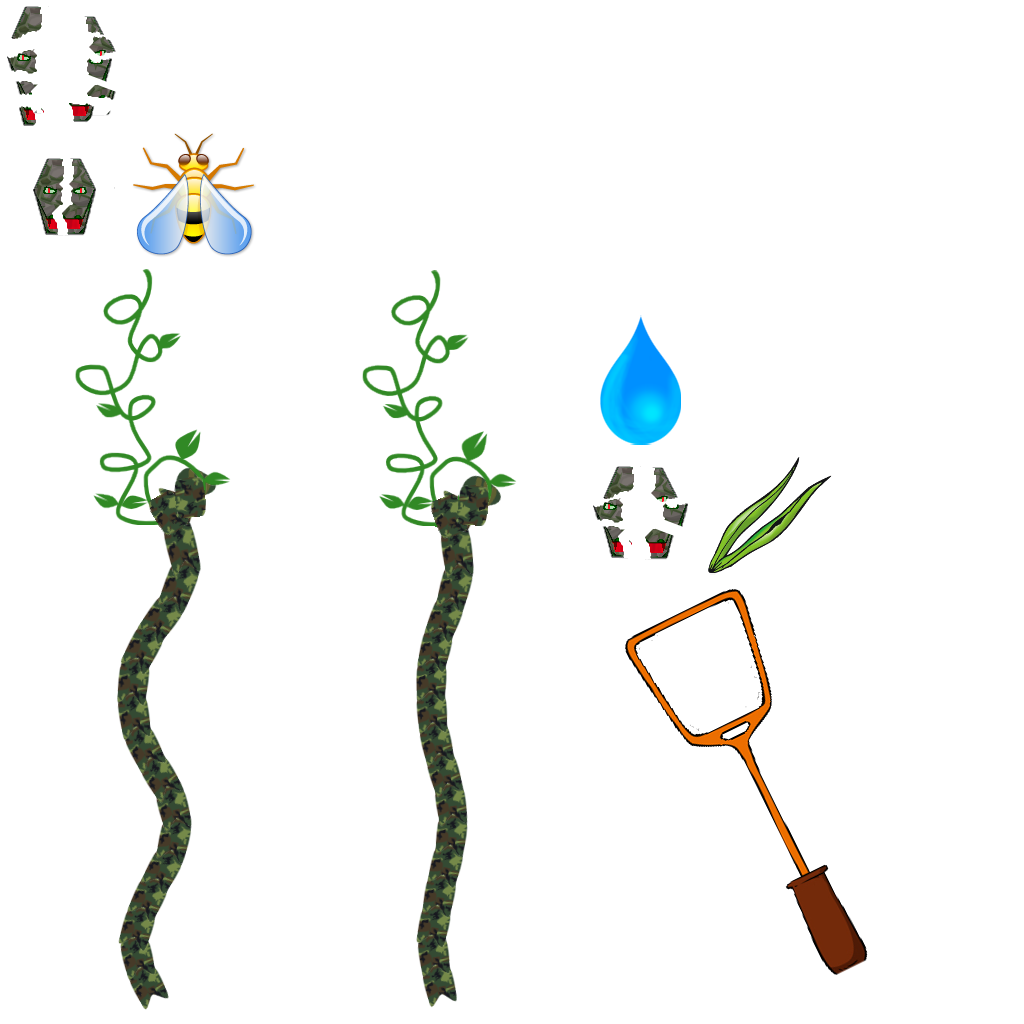
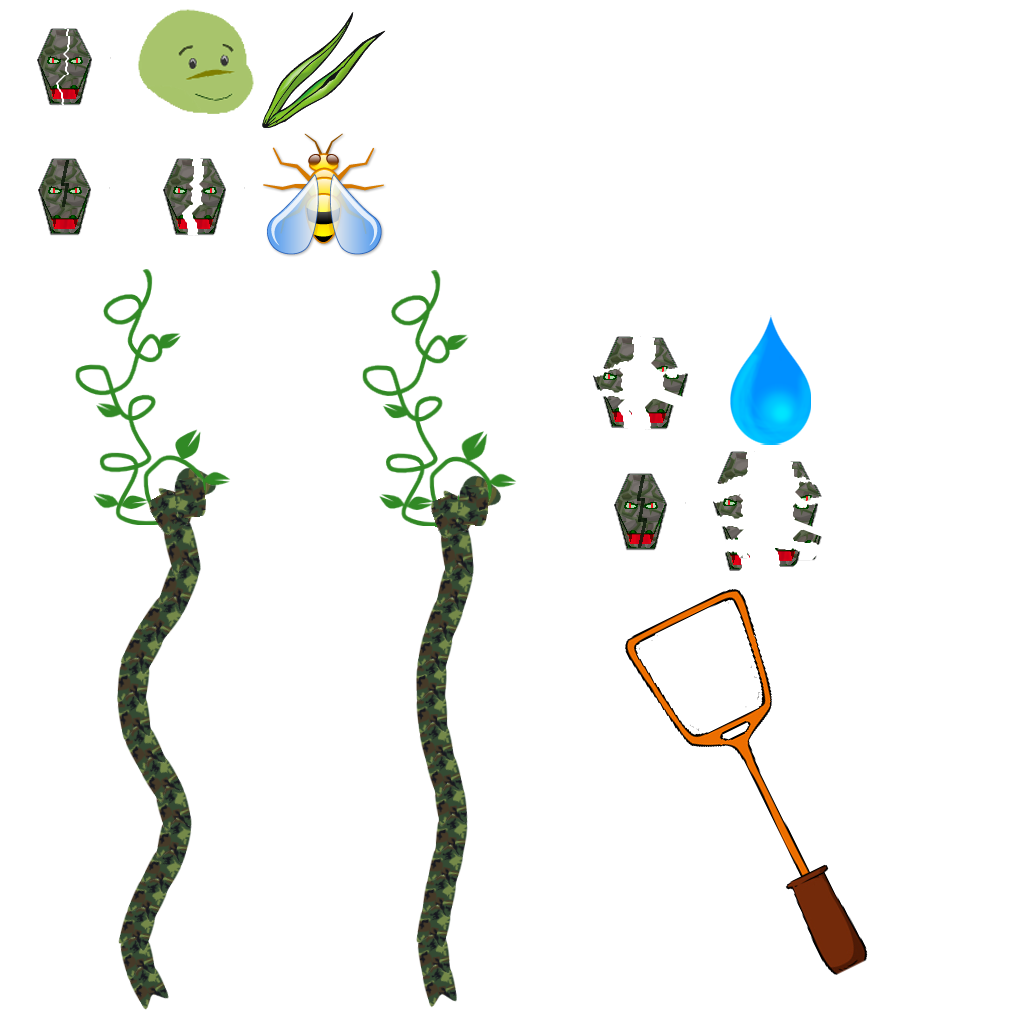
version fonctionnelle sans le changement de difficulté du boss

Changed region(s): [[0.0, 0.0, 0.375, 0.25], [0.5625, 0.3125, 0.8125, 0.5625], [0.0312, 0.1562, 0.0938, 0.25]]

diff --git a/rollingcat/src/fr/lirmm/smile/rollingcat/screen/BossScreen.java b/rollingcat/src/fr/lirmm/smile/rollingcat/screen/BossScreen.java
@@ -102,7 +102,7 @@ public class BossScreen implements Screen {
 	private Label pauseText, endText;
 	private Track track;
 	private HashMap<Integer, float []> map;
-	private Texture gui;
+	private Texture gui, background;
 	private Image slash, water, leaf, leaf2;
 	private Vector2[] lighting;
 	private float animationTimer, frame;
@@ -142,6 +142,7 @@ public class BossScreen implements Screen {
 		}
 
 		batch.begin();
+		batch.draw(background, 0, 0, GameConstants.DISPLAY_WIDTH, GameConstants.DISPLAY_HEIGHT);
 		batch.draw(gui, 0, 0, GameConstants.DISPLAY_WIDTH, GameConstants.DISPLAY_HEIGHT);
 		batch.end();
 		drawStandTime();
@@ -193,8 +194,8 @@ public class BossScreen implements Screen {
 			drawTask();
 		}
 		drawHearts();
-		batch.draw(player, GameConstants.BLOCK_WIDTH * 0.15f, GameConstants.BLOCK_HEIGHT * 0.4f, GameConstants.BLOCK_WIDTH, GameConstants.BLOCK_HEIGHT);
-		batch.draw(boss, GameConstants.DISPLAY_WIDTH - GameConstants.BLOCK_WIDTH * 1.15f, GameConstants.BLOCK_HEIGHT * 0.4f, GameConstants.BLOCK_WIDTH, GameConstants.BLOCK_HEIGHT);
+		batch.draw(player, GameConstants.BLOCK_WIDTH * 0.02f, GameConstants.BLOCK_HEIGHT * 0.08f, GameConstants.BLOCK_WIDTH * 1.3f, GameConstants.BLOCK_WIDTH * 1.3f);
+		batch.draw(boss, GameConstants.DISPLAY_WIDTH - GameConstants.BLOCK_WIDTH * 1.55f, GameConstants.BLOCK_HEIGHT * 0.0f, GameConstants.BLOCK_WIDTH * 2f, GameConstants.BLOCK_HEIGHT * 2f);
 		if(!paused & !done)
 			drawHeldItem();
 		batch.end();
@@ -234,25 +235,26 @@ public class BossScreen implements Screen {
 		endWindow.setWidth(GameConstants.DISPLAY_WIDTH * 0.5f);
 		endWindow.setHeight(GameConstants.DISPLAY_HEIGHT * 0.5f);
 
-		if((bossLife == 0 || playerLife == 0))
+		if((bossLife == 0 || playerLife == 0) & bossHeadActor.getActions().size == 0)
 		{
+			System.out.println("i am here");
 			bossHeadActor.addAction(
 					Actions.sequence(
 							Actions.delay(2),
-						new Action() {
-					
-					@Override
-					public boolean act(float delta) {
-						done = true;
-						endWindow.setVisible(true);
-						if(bossLife < playerLife)
-							endText.setText(localisation(_winboss));
-						else
-							endText.setText(localisation(_loseboss));
-						return true;
-					}
+							new Action() {
+
+								@Override
+								public boolean act(float delta) {
+									done = true;
+									endWindow.setVisible(true);
+									if(bossLife < playerLife)
+										endText.setText(localisation(_winboss));
+									else
+										endText.setText(localisation(_loseboss));
+									return true;
+								}
 							}));
-			
+
 		}
 
 		if(Gdx.input.isKeyPressed(Keys.SPACE))
@@ -321,6 +323,7 @@ public class BossScreen implements Screen {
 	public void show() {
 		EventManager.clear();
 		gui = new Texture("data/gui.png");
+		background = new Texture("data/backgroundboss.png");
 
 		map = new HashMap<Integer, float[]>();
 
@@ -471,8 +474,8 @@ public class BossScreen implements Screen {
 		halfHeart = new TextureRegion(GdxRessourcesGetter.getGameSkin().getRegion("halfheart"));
 		bossHead = new TextureRegion(GdxRessourcesGetter.getGameSkin().getRegion("shit"));
 
-		boss = new TextureRegion(GdxRessourcesGetter.getGameSkin().getRegion("shit"));
-		player = new TextureRegion(GdxRessourcesGetter.getGameSkin().getRegion("shit"));
+		boss = new TextureRegion(GdxRessourcesGetter.getGameSkin().getRegion("snake_fire0"));
+		player = new TextureRegion(GdxRessourcesGetter.getGameSkin().getRegion("turtlehead"));
 
 		table = new Table();
 		table.add(cat).pad(5);
@@ -521,14 +524,18 @@ public class BossScreen implements Screen {
 
 	private void parseTasks() {
 		tasks = new Array<Vector3>();
-		String [] tab = tasksAsString.split("/");
+		String [] tabOfTabs = tasksAsString.split("#");
+		String [] tab;
 
-		for (String s : tab) {
-			String [] coord = s.split(",");
-			int y = Integer.valueOf(coord[1]);
-			if(y < 2)
-				y = y+2;
-			tasks.add(new Vector3(Integer.valueOf(coord[0]), y, tasks.size));
+		for (String string : tabOfTabs) {
+			tab = string.split("/");
+			for (String s : tab) {
+				String [] coord = s.split(",");
+				int y = Integer.valueOf(coord[1]);
+				if(y < 2)
+					y = y+2;
+				tasks.add(new Vector3(Integer.valueOf(coord[0]), y, tasks.size));
+			}
 		}
 
 	}
@@ -678,27 +685,27 @@ public class BossScreen implements Screen {
 				if(!((bossLife == 0 || playerLife == 0)))
 				{
 					bossHeadActor.addAction(
-						Actions.sequence(
-								Actions.delay(0.8f),
-								Actions.moveTo(tasks.get(0).x * GameConstants.BLOCK_WIDTH, GameConstants.DISPLAY_HEIGHT),
-								new Action() {
+							Actions.sequence(
+									Actions.delay(0.8f),
+									Actions.moveTo(tasks.get(0).x * GameConstants.BLOCK_WIDTH, GameConstants.DISPLAY_HEIGHT),
+									new Action() {
 
-									@Override
-									public boolean act(float delta) {
-										setCurrentBossState();
-										return true;
-									}
-								},
-								Actions.moveTo(tasks.get(0).x * GameConstants.BLOCK_WIDTH, tasks.get(0).y * GameConstants.BLOCK_HEIGHT, 2, Interpolation.bounceOut),
-								new Action() {
+										@Override
+										public boolean act(float delta) {
+											setCurrentBossState();
+											return true;
+										}
+									},
+									Actions.moveTo(tasks.get(0).x * GameConstants.BLOCK_WIDTH, tasks.get(0).y * GameConstants.BLOCK_HEIGHT, 2, Interpolation.bounceOut),
+									new Action() {
 
-									@Override
-									public boolean act(float delta) {
-										standTime = 0;
-										dead = false;
-										return true;
-									}
-								}));
+										@Override
+										public boolean act(float delta) {
+											standTime = 0;
+											dead = false;
+											return true;
+										}
+									}));
 				}
 				else
 				{
@@ -711,7 +718,7 @@ public class BossScreen implements Screen {
 			}
 			else
 			{
-				done = true;
+				bossLife = 0;
 			}
 		}
 	}
@@ -724,12 +731,18 @@ public class BossScreen implements Screen {
 		switch (n) {
 		case 0:
 			currentBossState = BossState.FIRE;
+			boss.setRegion(GdxRessourcesGetter.getGameSkin().getRegion("snake_fire0"));
+			player.setRegion(GdxRessourcesGetter.getGameSkin().getRegion("turtlehead"));
 			break;
 		case 1:
 			currentBossState = BossState.MEAT;
+			boss.setRegion(GdxRessourcesGetter.getGameSkin().getRegion("snake"));
+			player.setRegion(GdxRessourcesGetter.getGameSkin().getRegion("cathead"));
 			break;
 		case 2:
 			currentBossState = BossState.ROCK;
+			boss.setRegion(GdxRessourcesGetter.getGameSkin().getRegion("snake_stone"));
+			player.setRegion(GdxRessourcesGetter.getGameSkin().getRegion("rabbithead"));
 			break;
 		}
 
@@ -853,20 +866,17 @@ public class BossScreen implements Screen {
 		slash.addAction(
 				Actions.sequence(
 						Actions.moveTo(tasks.get(0).x * GameConstants.BLOCK_WIDTH - GameConstants.BLOCK_WIDTH * 0.5f, tasks.get(0).y * GameConstants.BLOCK_HEIGHT - GameConstants.BLOCK_HEIGHT * 0.5f), 
+						Actions.show(),
+						Actions.delay(0.8f),
 						new Action() {
-
-							@Override
-							public boolean act(float delta) {
-								slash.setVisible(true);
-								return true;
-							}
-						}, Actions.delay(0.5f), Actions.hide(), new Action() {
 
 							@Override
 							public boolean act(float delta) {
 								dead = true;
 								return true;
-							}}));
+							}},
+							Actions.hide()
+						));
 	}
 
 	private void playWaterAnimation()
@@ -886,14 +896,17 @@ public class BossScreen implements Screen {
 						Actions.rotateTo(0),
 						Actions.moveTo(tasks.get(0).x * (GameConstants.BLOCK_WIDTH), tasks.get(0).y * GameConstants.BLOCK_HEIGHT + GameConstants.BLOCK_HEIGHT * 2), 
 						Actions.show(),
-						Actions.moveBy(0, -GameConstants.BLOCK_HEIGHT * 2, 0.4f), Actions.delay(0.1f), Actions.hide(), new Action() {
+						Actions.moveBy(0, -GameConstants.BLOCK_HEIGHT * 2, 0.4f),
+						Actions.delay(0.1f),
+						new Action() {
 
 							@Override
 							public boolean act(float delta) {
 								dead = true;
 								return true;
-							}
-						}));
+							}},
+							Actions.hide()
+						));
 	}
 
 	private void playLeafAnimation()
@@ -932,7 +945,7 @@ public class BossScreen implements Screen {
 								Actions.moveBy(0, -GameConstants.BLOCK_HEIGHT * 2, 0.3f, Interpolation.pow2Out),
 								Actions.rotateBy(10, 0.3f), Actions.moveBy(GameConstants.BLOCK_WIDTH * 0.5f, 0, 0.3f, Interpolation.pow2In)),
 								Actions.hide(),
-														Actions.delay(0.1f),
+								Actions.delay(0.1f),
 								new Action() {
 
 							@Override
